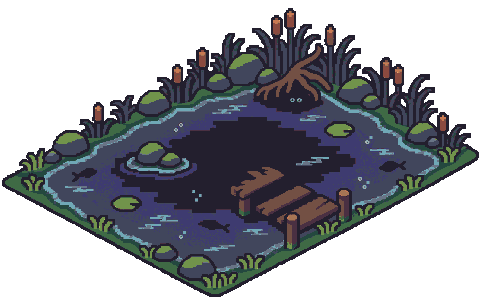
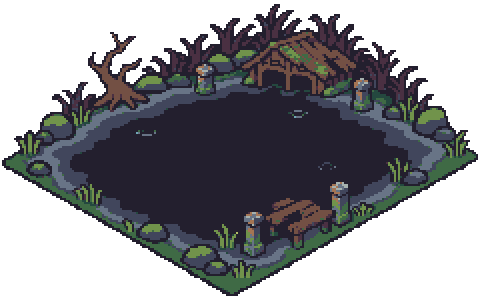
art(hagrid): add winter expansion scenery and Black Lake

diff --git a/docs/winter-lake-art-20261108.md b/docs/winter-lake-art-20261108.md
@@ -1,0 +1,13 @@
+# Winter asset audit and Black Lake — 2026-11-08
+
+Owner requested a winter-asset audit, missing artwork, correct scene loading, and a distinctive deep lake matching the garden's pixel theme.
+
+Inventory: six existing winter sprites are retained (hut, small frozen pond, oak, pine, grove, log). Added five matching variants: pond-1-snow, pond-2-snow, pond-3-snow, pond-bed-snow, pond-nook-snow. The deep lake also has a new non-snow sprite: dark water, old boathouse, ruined pier, ancient posts and a submerged squid silhouette. Every new asset uses the same canvas/pivot as its summer counterpart, a two-native-pixel grid, binary alpha and sprite24 plus winter white. Large immutable masters and full prompts/hashes are versioned in garden-v05/environment/winter/masters/expansion-20261108/provenance.json (built-in image_gen). Older masters remain intact.
+
+Loading defects: the winter map covered only the six older sprites and was gated by calendar season; explicit snow outside December–February never requested it. Built ponds and aquatic beds drew imageFor directly; the expanded pasture/orchard grounds bypassed weather processing; orchard trees explicitly disabled snow caps. The renderer now resolves authored winter replacements for ponds/beds/nook, weatherizes expansion grounds and tree foliage, and loads winter sprites for explicit Snow as well as calendar winter. Warm scenes keep the deferred loading budget. The winter helper loads immediately if Snow is already selected, retaining its delayed warm-scene path.
+
+Rebuild after other original art builders: node garden-v05/build-art-refresh.mjs, node garden-v05/build-winter-expansion-art.mjs, node garden-v05/build-runtime-webp.mjs. The expansion builder preserves source masters and runtime canvas/pivot geometry, updates deep-lake bounds, and records source/output SHA-256. Sync through HPVNN's existing sync-hagrid-garden script; source masters do not ship to the public artifact.
+
+Verification: 398 passing, 2 skipped among all recursive garden-v05 *.test.mjs except the previously unavailable historical progression-engine fixture suite. New checks validate all six assets' provenance, palette, coarse grid, alpha, matching winter/summer canvases, explicit Snow loading outside winter and actual renderer selection of the three expanded water/nook variants. WebP: 1,369 decoded-RGBA-identical conversions + 8 existing files. No backend, economy, progression, creature-size or movement changes.
+
+Local only; no publication or production-data authority. The live local 3026 review remains on demo-hpvnn-garden emulators, with the existing level-500 demo garden.
